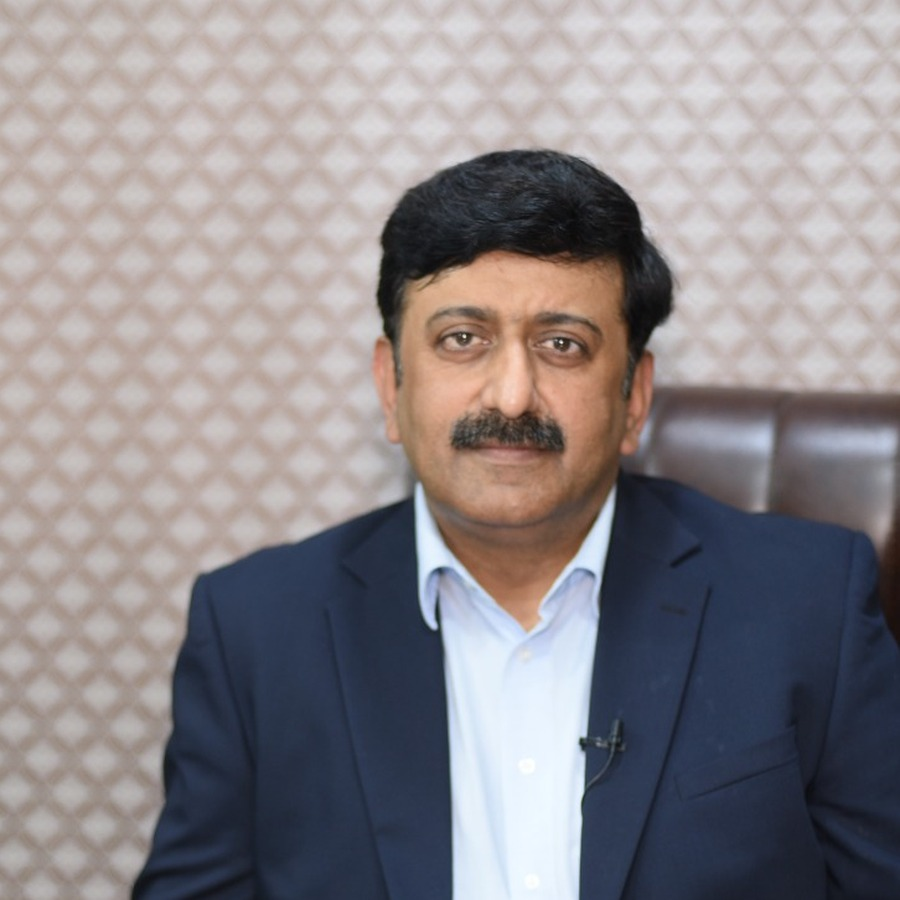
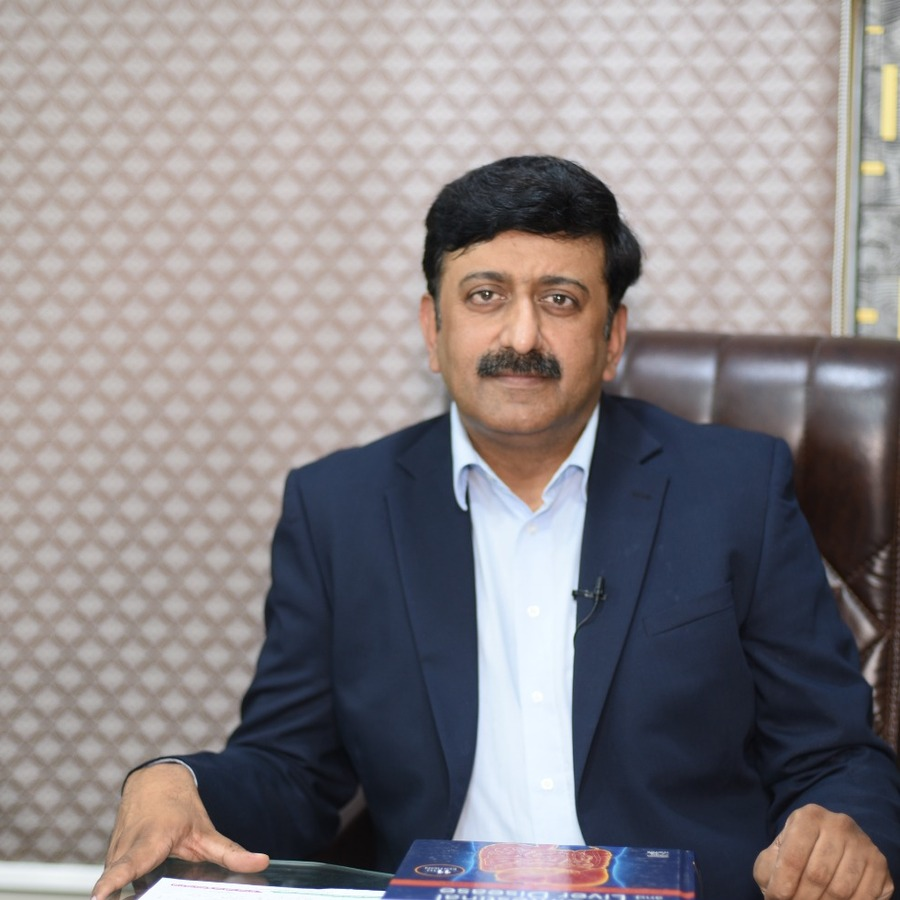
Zoom out Dr. Ayub profile crop for more natural framing.

diff --git a/doctors/dr-ayub.html b/doctors/dr-ayub.html
@@ -11,13 +11,13 @@
 <meta property="og:title" content="Dr. Muhammad Ayub Naich | Gastroenterologist in Bahawalnagar">
 <meta property="og:description" content="Expert digestive and liver care at National Hospital Bahawalnagar. Call or WhatsApp 0300 8588095.">
 <meta property="og:type" content="profile">
-<meta property="og:image" content="https://DOMAIN_PLACEHOLDER/assets/doctors/dr-ayub/profile.jpg?v=2">
+<meta property="og:image" content="https://DOMAIN_PLACEHOLDER/assets/doctors/dr-ayub/profile.jpg?v=3">
 <meta property="og:url" content="https://DOMAIN_PLACEHOLDER/doctors/dr-ayub.html">
 <meta property="og:locale" content="en_PK">
 <meta name="twitter:card" content="summary_large_image">
 <meta name="twitter:title" content="Dr. Muhammad Ayub Naich | Gastroenterologist in Bahawalnagar">
 <meta name="twitter:description" content="Expert digestive and liver care at National Hospital Bahawalnagar.">
-<meta name="twitter:image" content="https://DOMAIN_PLACEHOLDER/assets/doctors/dr-ayub/profile.jpg?v=2">
+<meta name="twitter:image" content="https://DOMAIN_PLACEHOLDER/assets/doctors/dr-ayub/profile.jpg?v=3">
 
 <link rel="preconnect" href="https://fonts.googleapis.com">
 <link rel="preconnect" href="https://fonts.gstatic.com" crossorigin>
@@ -31,7 +31,7 @@
   "@type": "Physician",
   "name": "Dr. Muhammad Ayub Naich",
   "url": "https://DOMAIN_PLACEHOLDER/doctors/dr-ayub.html",
-  "image": "https://DOMAIN_PLACEHOLDER/assets/doctors/dr-ayub/profile.jpg?v=2",
+  "image": "https://DOMAIN_PLACEHOLDER/assets/doctors/dr-ayub/profile.jpg?v=3",
   "telephone": "+92-300-8588095",
   "medicalSpecialty": ["Gastroenterologic", "Hepatology"],
   "honorificPrefix": "Dr.",
@@ -133,7 +133,7 @@
   <section class="doctor-page-hero">
     <div class="container doctor-page-hero__grid">
       <div class="doctor-page-hero__photo">
-        <img src="../assets/doctors/dr-ayub/profile.jpg?v=2" alt="Dr. Muhammad Ayub Naich, Consultant Gastroenterologist and Hepatologist at National Hospital Bahawalnagar" width="560" height="747">
+        <img src="../assets/doctors/dr-ayub/profile.jpg?v=3" alt="Dr. Muhammad Ayub Naich, Consultant Gastroenterologist and Hepatologist at National Hospital Bahawalnagar" width="560" height="747">
       </div>
       <div>
         <p class="eyebrow">Consult Dr. Muhammad Ayub Naich</p>

diff --git a/content.js b/content.js
@@ -14,7 +14,7 @@ window.SITE_CONTENT = {
   "hero": {
     "buildingImage": "assets/hospital/hero-building.jpg",
     "avatarImages": [
-      "assets/doctors/dr-ayub/profile.jpg?v=2",
+      "assets/doctors/dr-ayub/profile.jpg?v=3",
       "assets/doctors/dr-amjad-tahir/profile.png?v=10",
       "assets/doctors/dr-sajjad/profile.png",
       "assets/doctors/dr-zareen-amjad/profile.png"
@@ -77,7 +77,7 @@ window.SITE_CONTENT = {
       "name": "Dr. Muhammad Ayub Naich",
       "role": "MBBS, MD (Gastroenterology) | Consultant Gastroenterologist & Hepatologist",
       "bio": "Advanced endoscopic specialist providing expert digestive and liver care at National Hospital Bahawalnagar.",
-      "photo": "assets/doctors/dr-ayub/profile.jpg?v=2",
+      "photo": "assets/doctors/dr-ayub/profile.jpg?v=3",
       "pageUrl": "doctors/dr-ayub.html",
       "facebookUrl": "",
       "youtubeUrl": ""

diff --git a/index.html b/index.html
@@ -172,7 +172,7 @@
 
         <div class="hero__trustline">
           <a href="#doctors" class="hero__avatars" id="heroAvatars" aria-label="Meet our doctors">
-            <img src="assets/doctors/dr-ayub/profile.jpg?v=2" alt="Dr. Muhammad Ayub Naich">
+            <img src="assets/doctors/dr-ayub/profile.jpg?v=3" alt="Dr. Muhammad Ayub Naich">
             <img src="assets/doctors/dr-amjad-tahir/profile.png?v=10" alt="Dr. Amjad Tahir">
             <img src="assets/doctors/dr-sajjad/profile.png" alt="Dr. Sajjad Hussain">
             <img src="assets/doctors/dr-zareen-amjad/profile.png" alt="Dr. Zareen Amjad">

diff --git a/doctors/dr-amjad-tahir.html b/doctors/dr-amjad-tahir.html
@@ -388,7 +388,7 @@
       <div class="doctor-grid">
         <article class="doctor-card">
           <div class="doctor-card__photo">
-            <img src="../assets/doctors/dr-ayub/profile.jpg?v=2" alt="Dr. Muhammad Ayub Naich, Gastroenterologist" loading="lazy" width="400" height="460">
+            <img src="../assets/doctors/dr-ayub/profile.jpg?v=3" alt="Dr. Muhammad Ayub Naich, Gastroenterologist" loading="lazy" width="400" height="460">
             <div class="doctor-card__overlay">
               <a href="dr-ayub.html" class="btn btn--primary btn--sm">View Full Profile</a>
             </div>

diff --git a/doctors/dr-sajjad.html b/doctors/dr-sajjad.html
@@ -351,7 +351,7 @@
       <div class="doctor-grid">
         <article class="doctor-card">
           <div class="doctor-card__photo">
-            <img src="../assets/doctors/dr-ayub/profile.jpg?v=2" alt="Dr. Muhammad Ayub Naich, Gastroenterologist" loading="lazy" width="400" height="460">
+            <img src="../assets/doctors/dr-ayub/profile.jpg?v=3" alt="Dr. Muhammad Ayub Naich, Gastroenterologist" loading="lazy" width="400" height="460">
             <div class="doctor-card__overlay">
               <a href="dr-ayub.html" class="btn btn--primary btn--sm">View Full Profile</a>
             </div>

diff --git a/doctors/dr-zareen-amjad.html b/doctors/dr-zareen-amjad.html
@@ -379,7 +379,7 @@
       <div class="doctor-grid">
         <article class="doctor-card">
           <div class="doctor-card__photo">
-            <img src="../assets/doctors/dr-ayub/profile.jpg?v=2" alt="Dr. Muhammad Ayub Naich, Gastroenterologist" loading="lazy" width="400" height="460">
+            <img src="../assets/doctors/dr-ayub/profile.jpg?v=3" alt="Dr. Muhammad Ayub Naich, Gastroenterologist" loading="lazy" width="400" height="460">
             <div class="doctor-card__overlay">
               <a href="dr-ayub.html" class="btn btn--primary btn--sm">View Full Profile</a>
             </div>
